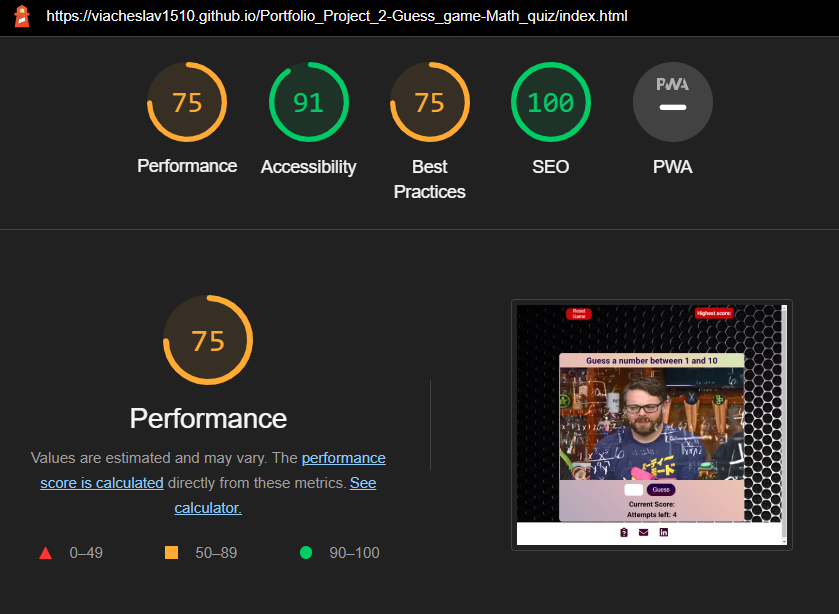
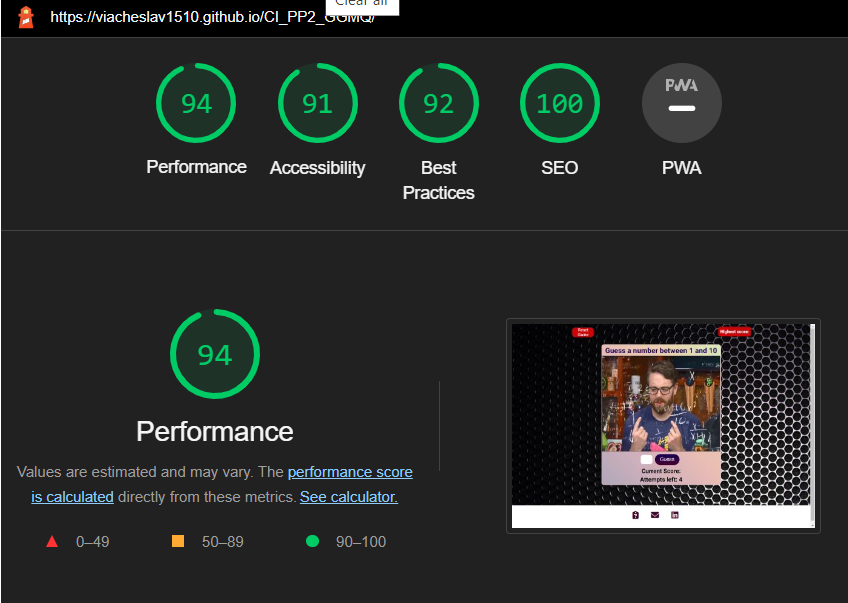
Add new performance images for index.html

diff --git a/README.md b/README.md
@@ -294,7 +294,7 @@ Tested CSS code with [W3C Jigsaw CSS Validation Service](https://jigsaw.w3.org/c
 
 ### Performance
 Google Lighthouse in Google Chrome Developer Tools was used to test the performance of the website.
-- Guess a Number page. Performace is not good enough because I'm using external link for main GIF animation instead of video format.
+- Guess a Number page
   - <details><summary>Desktop</summary>
     <img src="docs/validation/performance/guess-performance-desktop.png" alt="Performance">
     </details>
@@ -468,7 +468,7 @@ The website was tested on the following browsers:
 | **Bug**       | **Fix**        |
 | --------------| ---------------|
 | User can guess number after game finished  |Leave it on the next projects|
-| Low performance | Use video instead of external links  |
+| Low performance | Use local folders instead of external links for images |
 | Low SEO | Add meta description and meta keywords to increase it  |
 
 ## Credits
